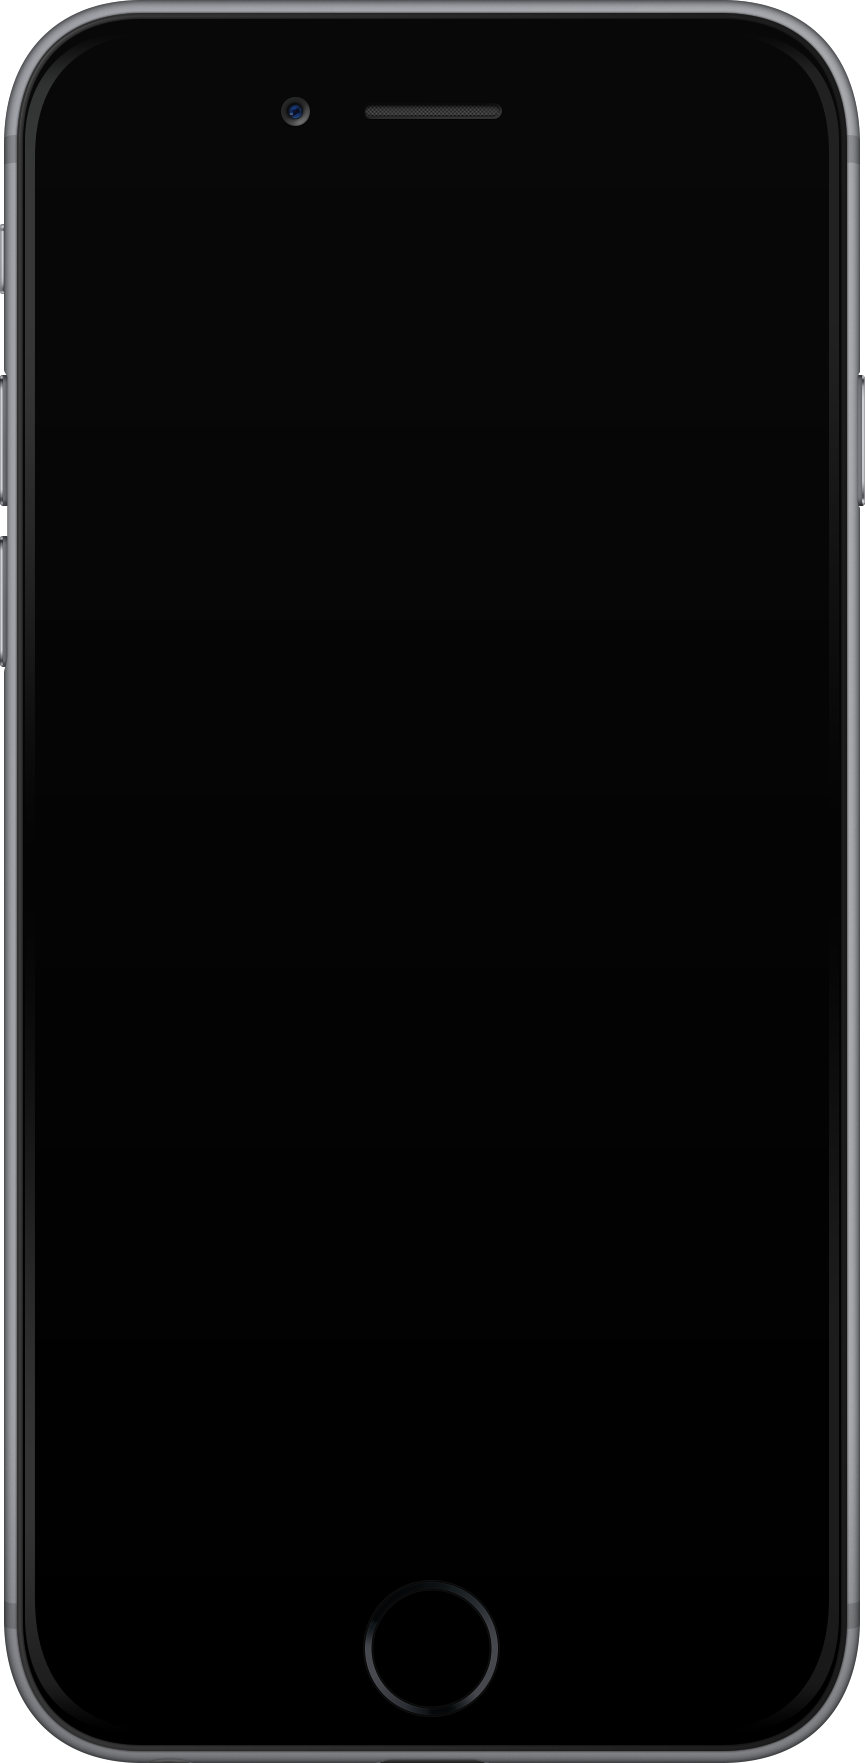
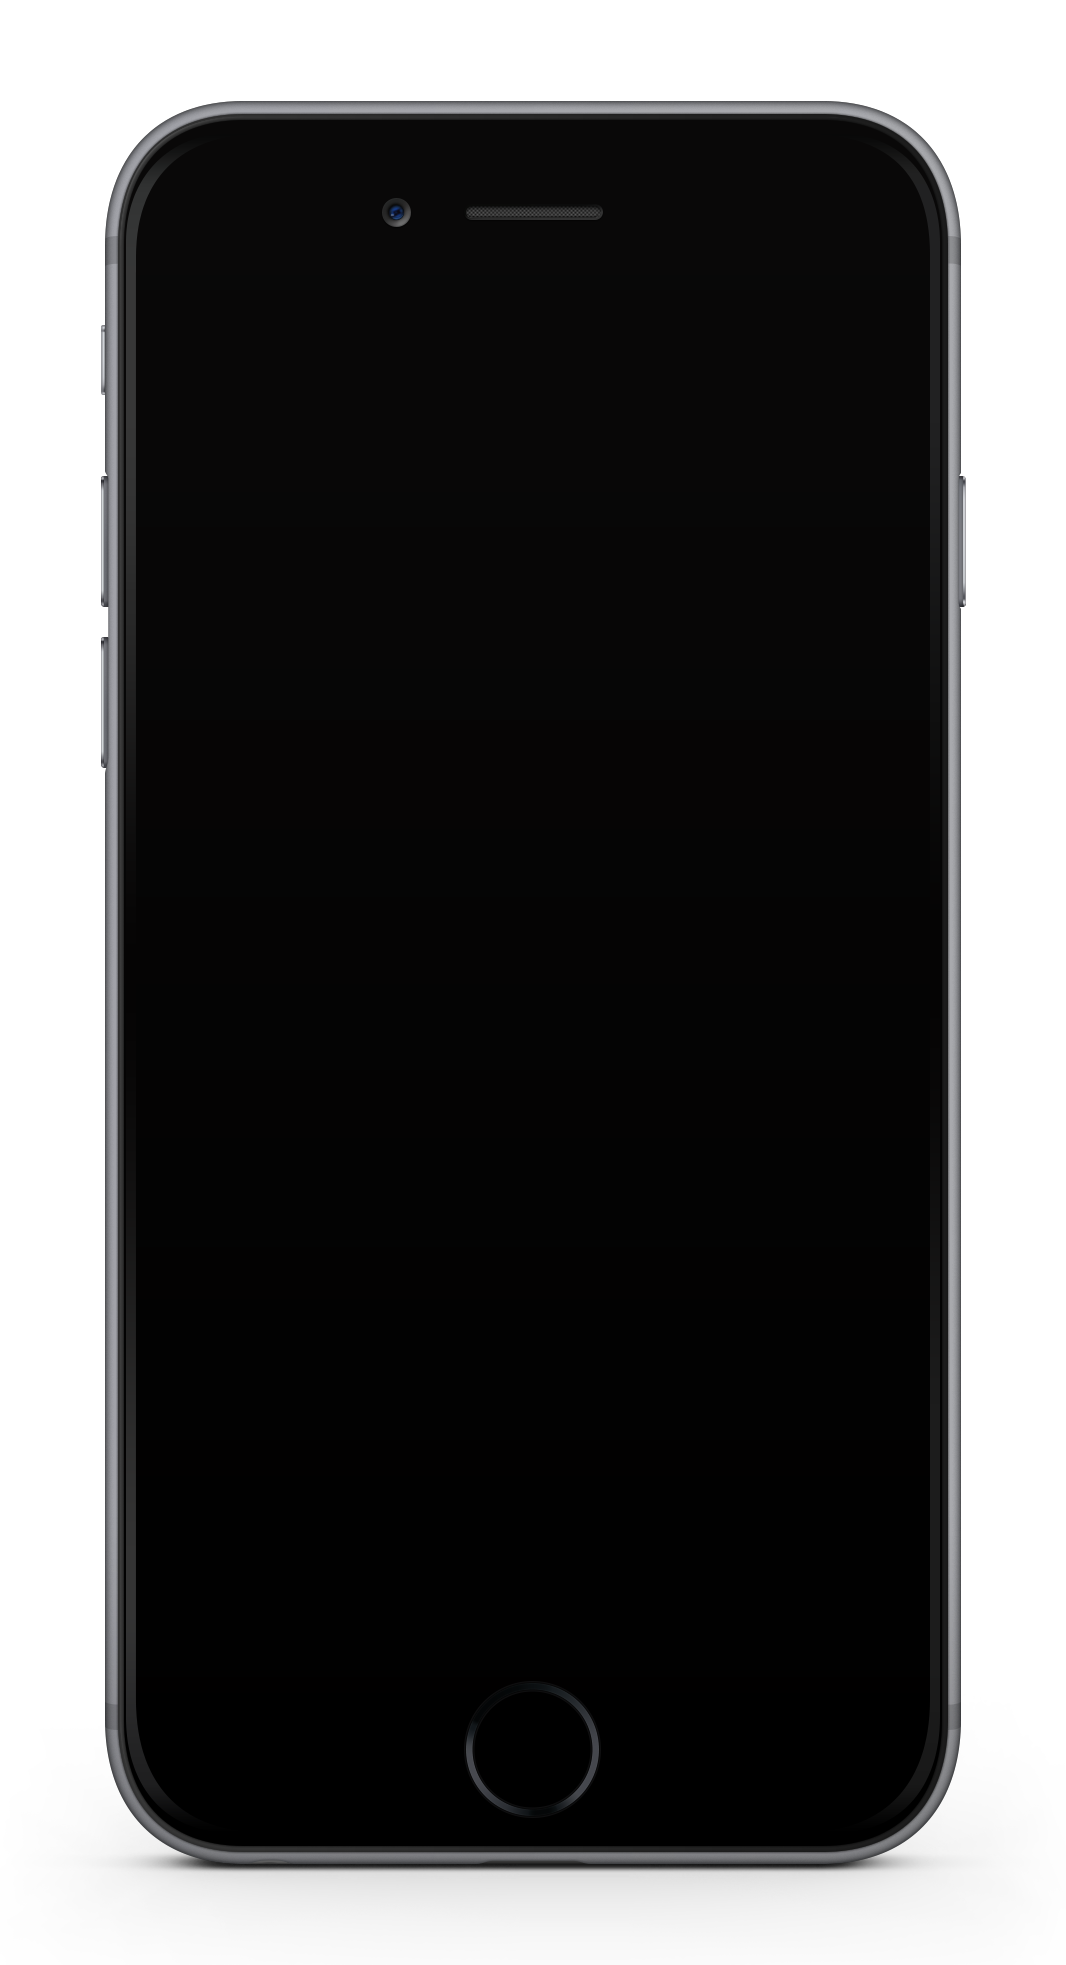
adds desktop version

diff --git a/js/bundle.js b/js/bundle.js
@@ -1,4 +1,4 @@
-!function(t){function e(s){if(i[s])return i[s].exports;var n=i[s]={exports:{},id:s,loaded:!1};return t[s].call(n.exports,n,n.exports,e),n.loaded=!0,n.exports}var i={};return e.m=t,e.c=i,e.p="",e(0)}([function(t,e,i){function s(){S>10&&!v?S-=10:S<=10&&!v&&(g=0,b=0,S=0),m.clearRect(0,0,y.width,y.height),""==r.className&&m.drawImage(c,S,0,y.width,y.height),S/y.width>.512&&(S=.512*y.width,d.style.opacity="1",f.style.opacity="0",_.style.zIndex="101",r.className="unfocus")}var n=i(1),o=document.getElementById("video-right");o.playbackRate=.99;var r=document.getElementById("video-left"),a=new n.Panner((-1)).toMaster(),h=new n.Panner(1).toMaster(),l=new n.Player("./media/ring.mp3").connect(a);l.loop=!0;var u=(new n.Player).connect(h);u.loop=!0,u.playbackRate=.99,n.Buffer.on("load",function(){u.buffer=l.buffer,window.innerWidth>769&&(l.start(),u.start(),r.play(),o.play())});var p=document.getElementById("start-button"),c=document.getElementById("phone-icon"),f=document.getElementById("no-icon"),d=document.getElementById("info-box"),_=document.getElementById("close-icon");_.addEventListener("touchend",function(){d.style.opacity="0",d.style.zIndex="0",r.className=""});var y=document.getElementById("touch-detector");y.width=f.width,y.height=f.height;var m=y.getContext("2d");m.drawImage(c,0,0,y.width,y.height),p.addEventListener("click",function(){l.start(),u.start(),o.play(),r.play(),r.className="",p.style.display="none",f.style.opacity="1",y.style.opacity="1",c.style.zIndex="100"});var v,g=0,b=0,S=0;c.addEventListener("touchstart",function(t){var e=t.touches[0].clientX,i=t.touches[0].clientY;m.getImageData(e,i,1,1).data[0]>0&&(v=!0,b=e,g=e)}),c.addEventListener("touchmove",function(t){v&&(g=t.touches[0].clientX,S=g-b)}),c.addEventListener("touchend",function(t){v=!1}),setInterval(function(){s()},1e3/60)},function(t,e,i){var s;!function(n,o){s=function(){return o()}.call(e,i,e,t),!(void 0!==s&&(t.exports=s))}(this,function(){"use strict";function t(t){i=t()}function e(t){t(i)}var i;/**
+!function(t){function e(s){if(i[s])return i[s].exports;var n=i[s]={exports:{},id:s,loaded:!1};return t[s].call(n.exports,n,n.exports,e),n.loaded=!0,n.exports}var i={};return e.m=t,e.c=i,e.p="",e(0)}([function(t,e,i){function s(){S>10&&!v?S-=10:S<=10&&!v&&(g=0,b=0,S=0),m.clearRect(0,0,y.width,y.height),""==r.className&&m.drawImage(c,S,0,y.width,y.height),S/y.width>.512&&(S=.512*y.width,d.style.display="block",f.style.opacity="0",_.style.zIndex="101",r.className="unfocus")}var n=i(1),o=document.getElementById("video-right");o.playbackRate=.99;var r=document.getElementById("video-left"),a=new n.Panner((-1)).toMaster(),h=new n.Panner(1).toMaster(),l=new n.Player("./media/ring.mp3").connect(a);l.loop=!0;var u=(new n.Player).connect(h);u.loop=!0,u.playbackRate=.99,n.Buffer.on("load",function(){u.buffer=l.buffer,window.innerWidth>769&&(l.start(),u.start(),r.play(),o.play())});var p=document.getElementById("start-button"),c=document.getElementById("phone-icon"),f=document.getElementById("no-icon"),d=document.getElementById("info-box"),_=document.getElementById("close-icon");_.addEventListener("touchend",function(){d.style.display="none",d.style.zIndex="0",r.className=""});var y=document.getElementById("touch-detector");y.width=f.width,y.height=f.height;var m=y.getContext("2d");m.drawImage(c,0,0,y.width,y.height),p.addEventListener("click",function(){l.start(),u.start(),o.play(),r.play(),r.className="",p.style.display="none",f.style.opacity="1",y.style.opacity="1",c.style.zIndex="100"});var v,g=0,b=0,S=0;c.addEventListener("touchstart",function(t){var e=t.touches[0].clientX,i=t.touches[0].clientY;m.getImageData(e,i,1,1).data[0]>0&&(v=!0,b=e,g=e)}),c.addEventListener("touchmove",function(t){v&&(g=t.touches[0].clientX,S=g-b)}),c.addEventListener("touchend",function(t){v=!1}),setInterval(function(){s()},1e3/60)},function(t,e,i){var s;!function(n,o){s=function(){return o()}.call(e,i,e,t),!(void 0!==s&&(t.exports=s))}(this,function(){"use strict";function t(t){i=t()}function e(t){t(i)}var i;/**
 		 *  Tone.js
 		 *  @author Yotam Mann
 		 *  @license http://opensource.org/licenses/MIT MIT License

diff --git a/style.css b/style.css
@@ -2,8 +2,8 @@
   font-family: SanFranciscoDisplay;
   font-weight: bold;
   src: url("./SanFranciscoDisplay-Bold.otf") format("opentype");
-  src: url("./SanFranciscoDisplay-Bold.otf") format("woff");
-  src: url("./SanFranciscoDisplay-Bold.otf") format("woff2");
+  src: url("./SanFranciscoDisplay-Bold.woff") format("woff");
+  src: url("./SanFranciscoDisplay-Bold.woff2") format("woff2");
 }
 
 @font-face {
@@ -11,50 +11,84 @@
   font-weight: normal;
   src: url("./SanFranciscoText-Medium.otf") format("opentype");
   src: url("./SanFranciscoText-Medium.woff") format("woff");
-  src: url("./SanFranciscoText-Medium.woff") format("woff2");
+  src: url("./SanFranciscoText-Medium.woff2") format("woff2");
 }
 
 body {
-  margin: 0;
+  margin: 0 auto;
+  background-color: #f2f2f2;
 }
 
 .video-container {
-  width: 100%;
-  height: auto;
-  margin: 0 auto;
+  margin-top: 10vh;
+  height: 80vh;
+  width: auto;
+  display: flex;
 }
 
-#video-left {
-  width: 30%; 
-  height: auto; 
-  float: left; 
-  margin-right: 10%;
+.video-left {
+  width: 50%; 
+  height: 100%; 
+  /*margin-right: 10%;
   margin-left: 10%;
-  padding-top:5%;
+  padding-top:5%;*/
+  position: relative;
+  display: inline;
 }
 
-#video-right {
-  width: 30%; 
-  height: auto; 
+.video-right {
+  width: 50%; 
+  height: 100%; 
+  /*margin-right: 10%;
   margin-left: 10%;
-  float: left; 
-  padding-top:5%;
+  padding-top:5%;*/
+  position: relative;
+  display: inline;
+}
+
+.video-left video {
+  position: absolute;
+  /*margin: 0 auto;*/
+  height: 70%;
+  transform: translate(-50%,0);
+  left: 50%;
+  top: 15%;
+}
+.video-right video {
+  position: absolute;
+  /*margin: 0 auto;*/
+  height: 70%;
+  transform: translate(-50%,0);
+  left: 50%;
+  top: 15%;
+}
+.video-left img {
+  position: relative;
+  height: 100%;
+  transform: translate(-50%,0);
+  left: 50%;
+}
+
+.video-right img {
+  position: relative;
+  height: 100%;
+  transform: translate(-50%,0);
+  left: 50%;
 }
 
 #start-button-container {
   display:none;
 }
 
-#slider-container {
-  position: absolute;
-  top: 0;
-  left: 0;
-  width: 100%;
-  height: 100%;
-}
 
 .slide-icons {
   display: none;
+}
+
+.info-desktop {
+  text-align: center;
+  font-family: "SanFranciscoText", sans-serif;
+  padding: 20px;
 }
 
 #no-icon {
@@ -66,7 +100,7 @@ body {
 #touch-detector {
 }
 
-@media only screen and (max-width:769px) {
+@media only screen and (max-width:700px) {
   body {
     fill:black;
   }
@@ -111,12 +145,14 @@ body {
   }
 
   #info-box {
+    display: none;
     background-color: white;
     border-radius: 20px;
     width: 90%;
     height: 65%;
     margin-left: 5%;
     margin-top: 5%;
+    opacity: 1;
   }
 
   #grey-border {
@@ -155,6 +191,38 @@ body {
     width: 100%;
     height: auto;
     opacity: 0;
+  }
+
+  .video-left img {
+    display: none;
+  }
+
+  .video-right img{
+    display: none;
+  }
+
+  .info-desktop{
+    display: none;
+  }
+
+  .video-left video {
+    transform: none;
+    left: 0;
+    right: 0;
+    top: 0;
+  }
+
+  .video-left {
+    height: 100%;
+    width: 100%;
+  }
+
+  .video-right {
+    display: none;
+  }
+
+  .video-container {
+    margin: 0 auto;
   }
 
 }

diff --git a/index.html b/index.html
@@ -7,8 +7,14 @@
 </head>
 <body>
   <div class="video-container">
-    <video id="video-left" class="unfocus" src="./media/video.mp4" poster="./images/cover.jpg" loop playsinline muted></video>
-    <video id="video-right" src="./media/video.mp4" poster="./images/cover.jpg" loop muted></video>
+    <div class="video-left">
+      <img class="iphone-left" src="./images/iphone.png"/>
+      <video id="video-left" class="unfocus" src="./media/video.mp4" poster="./images/cover.jpg" loop playsinline muted></video>
+    </div>
+    <div class="video-right">
+      <img class="iphone-right" src="./images/iphone.png"/>
+      <video id="video-right" src="./media/video.mp4" poster="./images/cover.jpg" loop muted></video>
+    </div>
     <img class="slide-icons" id="no-icon" src="./images/no_icon.png"/>
     <img class="slide-icons" id="phone-icon" src="./images/phone_icon.png"/>
     <canvas class="slide-icons" id="touch-detector"></canvas>
@@ -24,6 +30,9 @@
       </div>
     </div>
   </div> 
+  <div class="info-desktop">
+    Designed by <a href="http://www.sethkranzler.com">Seth Kranzler</a> in New York City
+  </div>
     <div id="start-button-container">
         <input type="image" id="start-button" src="./images/icon.png"/>
     </div>

diff --git a/js/main.js b/js/main.js
@@ -33,7 +33,7 @@ var infoBox = document.getElementById("info-box");
 var closeButton = document.getElementById("close-icon");
 
 closeButton.addEventListener("touchend", function(){
-  infoBox.style.opacity = "0";
+  infoBox.style.display = "none";
   infoBox.style.zIndex = "0";
   leftVid.className = "";
 });
@@ -105,7 +105,7 @@ function draw(){
   if(dist/canvas.width > 0.512){
     // window.location = "http://www.sethkranzler.com";
     dist = 0.512 * canvas.width;
-    infoBox.style.opacity = "1";
+    infoBox.style.display = "block";
     noButton.style.opacity = "0";
     closeButton.style.zIndex = "101";
     leftVid.className = "unfocus";
